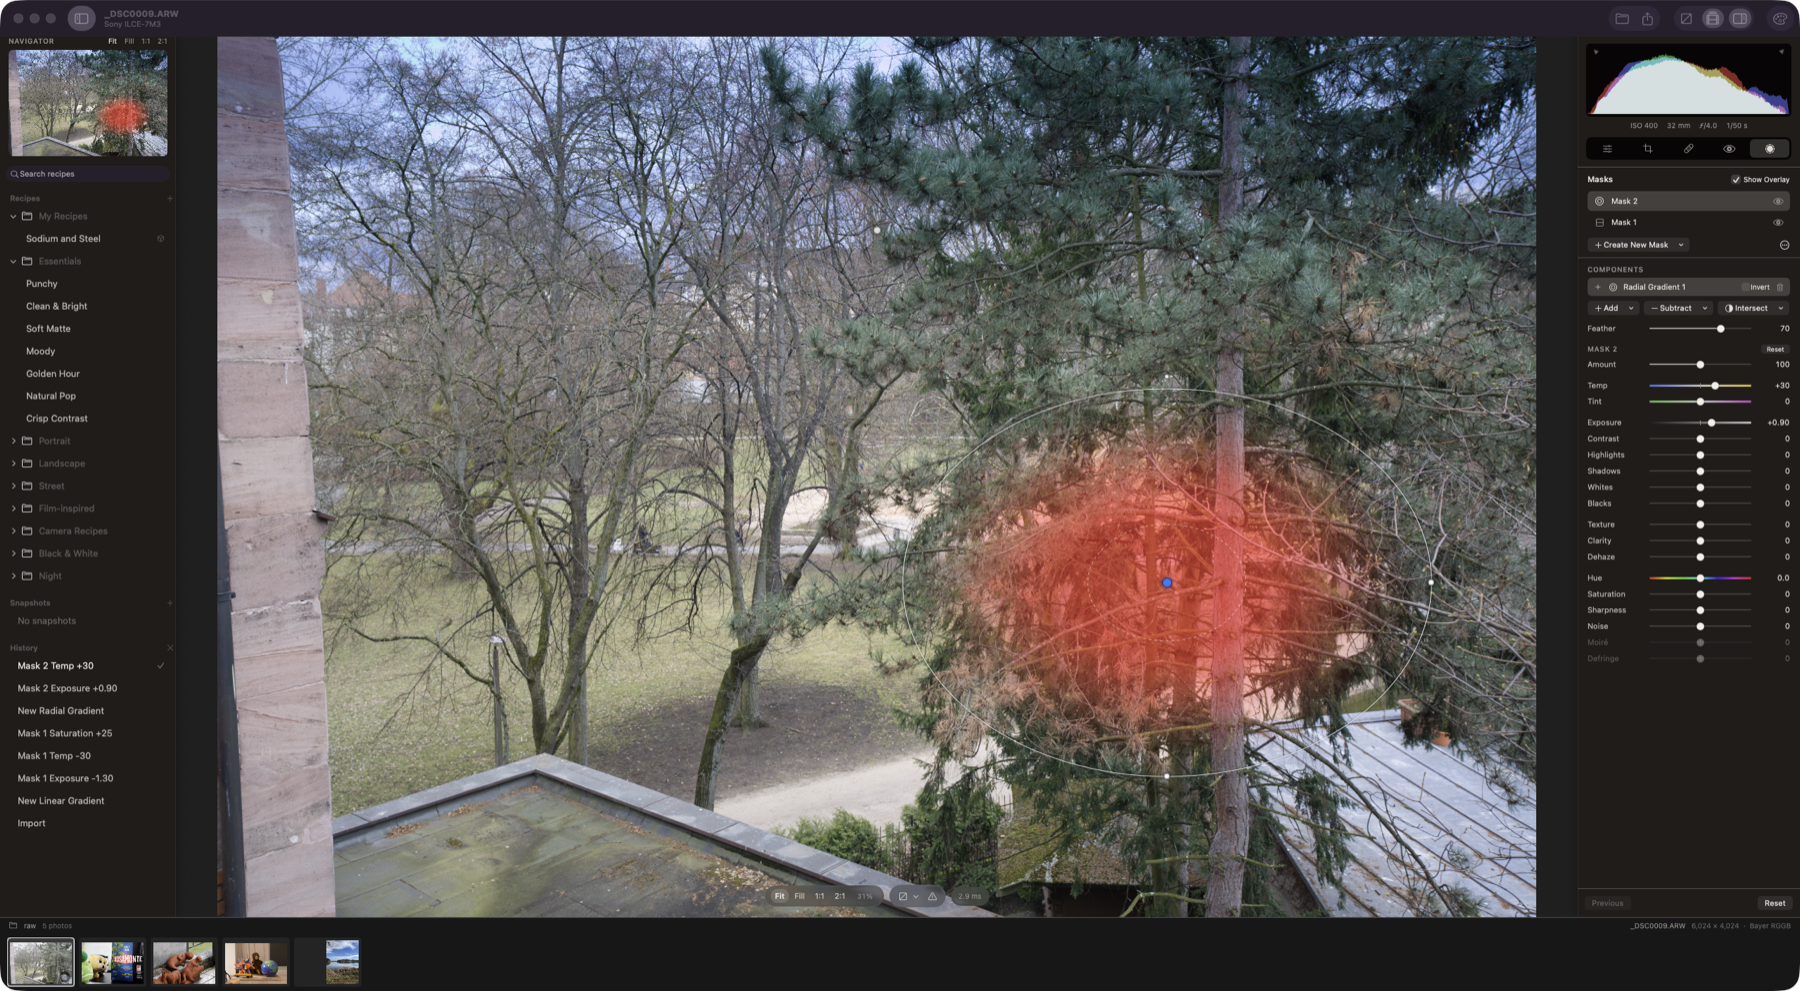
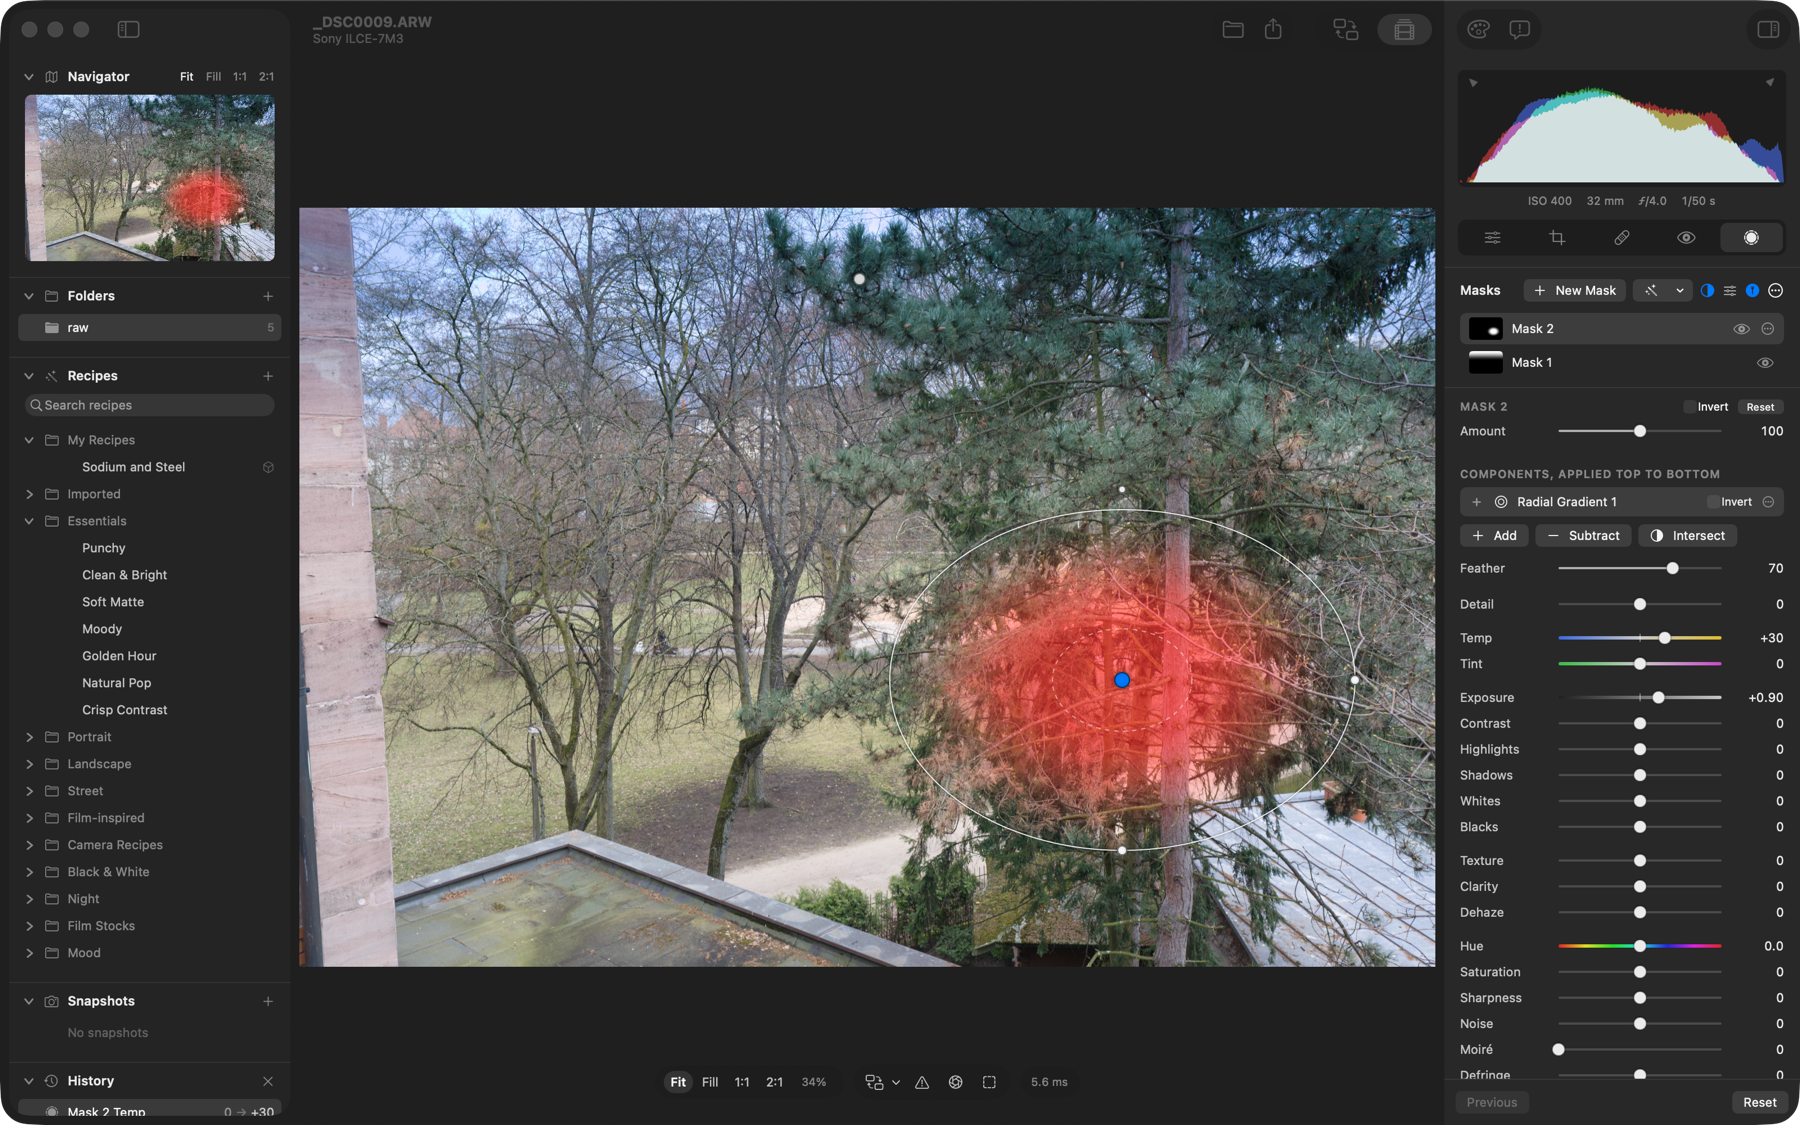
Screenshots: the README's masking shot shows the new Masks panel, and the manual's panel figure is back, cropped from it; capture-screenshots.sh keeps the user's preferences out of its shots (UX-20, #301)
capture-screenshots.sh saves the app's preferences and puts them back afterwards, as capture-promo.sh does, and clears the theme, the remembered folders, the library's views and the editor's size for the run, so the Folders panel lists only the fixtures and the filmstrip keeps the order the script's selections count on. It sizes the window at 1600 x 1000 and leaves the launch arguments beside the bundle, where no other checkout's launch can take them.

The manual's figure 3.1 is the panel from that shot, with a key for the new panel, after Open the Masking tool, where it fits on the page. The manual builds with no warnings, 29 pages.

diff --git a/docs/manual/figures/masks-panel.html b/docs/manual/figures/masks-panel.html
@@ -1,35 +1,35 @@
 title: The Masks panel
 tag: Panel
-caption: **The Masks panel with one mask, found by Subject.** Its list, the buttons that make masks, the mask's one component and the mask's own sliders, top to bottom; the adjustments continue in [](#fig.mask-adjustments). From `docs/images/hero-masks.png`, captured by `scripts/capture-hero.sh`.
+caption: **The Masks panel with two masks, a linear gradient and a radial one.** The header, the list and the selected mask's settings, top to bottom; its adjustments continue in [](#fig.mask-adjustments). From `docs/images/masking.png`, captured by `scripts/capture-screenshots.sh`.
 ---
 <div class="anatomy">
   <div class="shot gutters">
-    <div class="crop" style="--crop-x: 1935; --crop-y: 350; --crop-w: 465; --crop-h: 410; --image-w: 2400; --image-h: 1500;">
-      <img src="{{repo}}/docs/images/hero-masks.png" alt="The top of Redlamp's Masks panel: the list of masks, the Create New Mask and Presets buttons, the Subject 1 component, and the mask's Amount and Detail sliders">
+    <div class="crop" style="--crop-x: 1440; --crop-y: 270; --crop-w: 360; --crop-h: 350; --image-w: 1800; --image-h: 1125;">
+      <img src="{{repo}}/docs/images/masking.png" alt="The top of Redlamp's Masks panel: the header with New Mask and Mask Presets, the list of two masks with their thumbnails, Mask 2's Invert, Reset and Amount, its Radial Gradient 1 component, Add, Subtract and Intersect, Feather and Detail">
     </div>
-    <span class="mark r" style="top: 7.8%">1</span>
-    <span class="mark l" style="top: 19.5%">2</span>
-    <span class="mark r" style="top: 19.5%">3</span>
-    <span class="mark l" style="top: 31.2%">4</span>
-    <span class="mark r" style="top: 31.2%">5</span>
-    <span class="mark l" style="top: 53.2%">6</span>
-    <span class="mark r" style="top: 53.2%">7</span>
-    <span class="mark l" style="top: 64.1%">8</span>
-    <span class="mark l" style="top: 74.9%">9</span>
-    <span class="mark r" style="top: 74.9%">10</span>
-    <span class="mark l" style="top: 87.2%">11</span>
+    <span class="mark l" style="top: 5.7%">1</span>
+    <span class="mark r" style="top: 5.7%">2</span>
+    <span class="mark l" style="top: 16.6%">3</span>
+    <span class="mark r" style="top: 16.6%">4</span>
+    <span class="mark l" style="top: 38.6%">5</span>
+    <span class="mark r" style="top: 38.6%">6</span>
+    <span class="mark l" style="top: 45.7%">7</span>
+    <span class="mark l" style="top: 66%">8</span>
+    <span class="mark r" style="top: 66%">9</span>
+    <span class="mark l" style="top: 75.7%">10</span>
+    <span class="mark l" style="top: 85.1%">11</span>
   </div>
   <ol class="key key-wide">
-    <li><span class="n">1</span><span><b>Show Overlay</b><i>Shows the selected mask in red, [[O]]. The button beside it sets the overlay's Mode, Color and Opacity.</i></span></li>
-    <li><span class="n">2</span><span><b>Masks</b><i>Newest first. Click to select; double-click to rename.</i></span></li>
-    <li><span class="n">3</span><span><b>Eye</b><i>Hides the mask, or shows it again.</i></span></li>
-    <li><span class="n">4</span><span><b>Create New Mask · Presets</b><i>Twelve kinds of mask; eight presets, then yours.</i></span></li>
-    <li><span class="n">5</span><span><b>More</b><i>Update AI Masks and Delete All Masks.</i></span></li>
-    <li><span class="n">6</span><span><b>Components</b><i>The shapes the mask is made of, in order.</i></span></li>
-    <li><span class="n">7</span><span><b>Invert · Delete</b><i>Turn the component inside out, or remove it.</i></span></li>
-    <li><span class="n">8</span><span><b>Add · Subtract · Intersect</b><i>Each adds a component that combines that way.</i></span></li>
-    <li><span class="n">9</span><span><b>The mask's section</b><i>Named after the mask, with its sliders below.</i></span></li>
-    <li><span class="n">10</span><span><b>Reset</b><i>The mask's adjustments, back to their defaults.</i></span></li>
-    <li><span class="n">11</span><span><b>Amount · Detail</b><i>Act on the whole mask.</i></span></li>
+    <li><span class="n">1</span><span><b>New Mask · Mask Presets</b><i>The picker of every kind of mask; nine presets, then yours.</i></span></li>
+    <li><span class="n">2</span><span><b>Overlay · Pins · More</b><i>Show Overlay, [[O]], and its Mode, Color and Opacity; pins for the other masks; Update AI Masks and Delete All Masks.</i></span></li>
+    <li><span class="n">3</span><span><b>Masks</b><i>Newest first, each with a picture of what it covers. Click to select; double-click to rename.</i></span></li>
+    <li><span class="n">4</span><span><b>Eye · Menu</b><i>Hides or shows the mask, or with Option shows it alone; the menu renames, inverts, duplicates, resets or deletes it, or saves it as a preset.</i></span></li>
+    <li><span class="n">5</span><span><b>The mask's section</b><i>Named after the mask, with its settings below.</i></span></li>
+    <li><span class="n">6</span><span><b>Invert · Reset</b><i>The whole mask inside out; its adjustments back to their defaults.</i></span></li>
+    <li><span class="n">7</span><span><b>Amount</b><i>How strongly the mask's adjustments apply.</i></span></li>
+    <li><span class="n">8</span><span><b>Components</b><i>The shapes the mask is made of; the icon's menu sets how each combines.</i></span></li>
+    <li><span class="n">9</span><span><b>Invert · Menu</b><i>Turns the component inside out; the menu deletes it.</i></span></li>
+    <li><span class="n">10</span><span><b>Add · Subtract · Intersect</b><i>Each opens the picker for a component that combines that way.</i></span></li>
+    <li><span class="n">11</span><span><b>Feather · Detail</b><i>The selected component's own settings, then Detail, for the whole mask.</i></span></li>
   </ol>
 </div>

diff --git a/docs/manual/content/masking/how-a-mask-works.md b/docs/manual/content/masking/how-a-mask-works.md
@@ -17,6 +17,8 @@ The Edit panels change the whole photo. A mask changes only part of it: you make
 
 Press [[⇧W]], or click Masking at the right of the tool strip under the histogram. Click it again, or press [[D]], to go back to Edit. Each mask that you draw has a key of its own, [[M]], [[⇧M]], [[K]], [[⇧J]], [[⇧Q]] and [[⇧Z]], and pressing one opens the tool and starts that mask at once. [[Esc]] finishes the mask you're drawing; a second [[Esc]] leaves the tool.
 
+{{figure: masks-panel}}
+
 Every mask starts in one picker. Before a photo has any masks it takes the list's place, titled New Mask, with a tile for each kind of mask in three groups: AI, DRAWN and RANGE. Once there are masks, New Mask at the top of the panel opens the same picker beside it. A tile is dimmed when its mask can't be made for this photo, and its tooltip says so.
 
 The panel keeps the same order, top to bottom:
